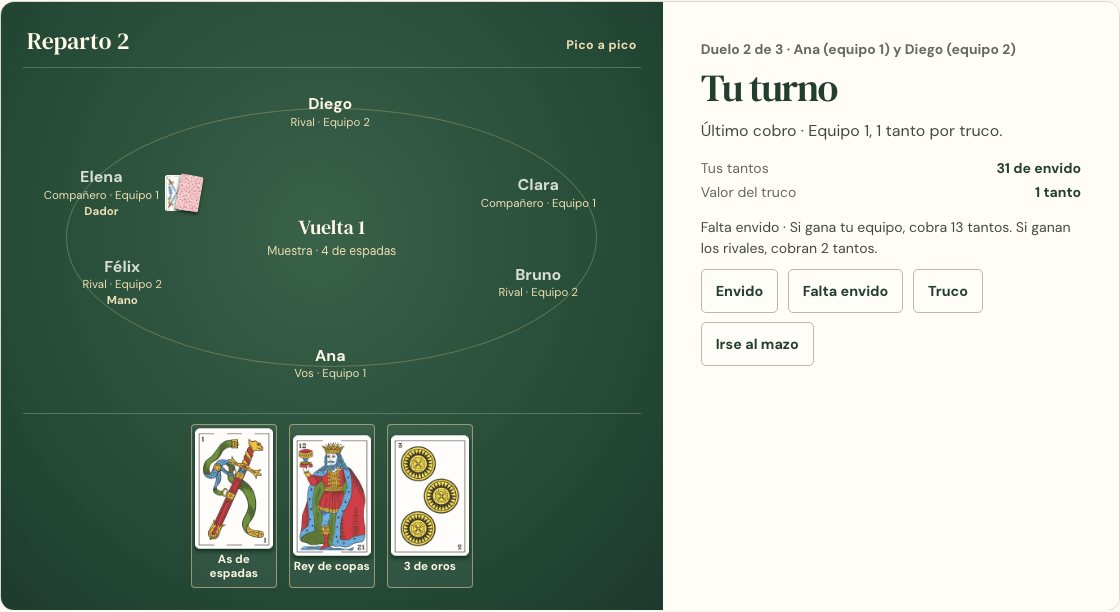
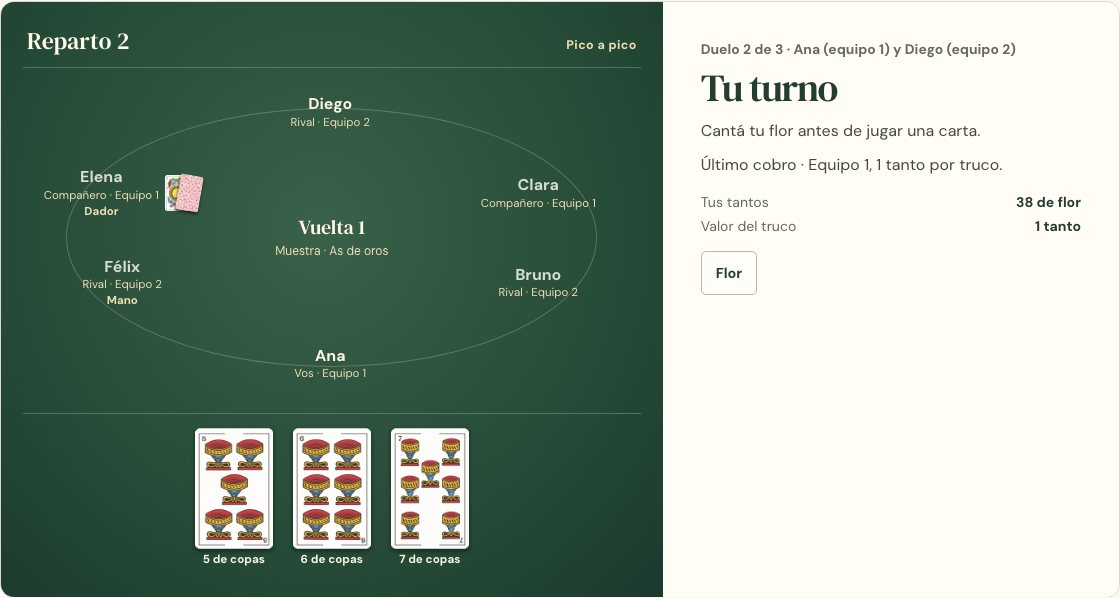
Recorrer el replay público con seis navegadores y cobrar el resto en el segundo duelo

diff --git a/src/components/jugar/Tercetos.tsx b/src/components/jugar/Tercetos.tsx
@@ -51,7 +51,7 @@ function Puestos({ mesa, partida, base }: Pick<Props, "mesa" | "partida" | "base
         const ganador = !enCurso && ultima?.resultado.tipo === "ganada" && ultima.resultado.asiento === asiento;
         return (
           <div key={asiento} className="j-seis-puesto" data-pos={(asiento - mesa.miAsiento + 6) % 6}
-            data-activo={lance.activos.includes(asiento)} role="group" aria-label={`Asiento ${asiento + 1} · ${nombre}`}>
+            data-activo={lance.activos.some(a => a === asiento)} role="group" aria-label={`Asiento ${asiento + 1} · ${nombre}`}>
             <div className="j-seis-nombre">
               <strong>{nombre}</strong>
               <span>{papel} · Equipo {equipo + 1}</span>
@@ -94,7 +94,7 @@ function Historial({ acciones, cobros, vueltas, mesa }: Pick<VistaTercetos, "acc
     {cobros.length > 0 && <ul aria-label="Tantos cobrados">
       {cobros.map((c, i) => <li key={i}>Equipo {c.equipo + 1} · {tantos(c.tantos)} por {c.motivo}
         {c.tantoGanador != null && c.asiento != null && ` (${mesa.asientos[c.asiento].nombre} con ${c.tantoGanador})`}
-        {c.valor !== c.tantos && ` · valor del canto ${tantos(c.valor)}`}.</li>)}
+        {c.valor != null && c.valor !== c.tantos && ` · valor del canto ${tantos(c.valor)}`}.</li>)}
     </ul>}
   </>;
 }
@@ -147,6 +147,8 @@ export function MesaDeTercetos({ mesa, partida, base, bloqueada, jugar }: Props)
           <h2 ref={encabezado} tabIndex={-1}>{titulo}</h2>
           {vista.estado === "esperando" && <p>{dueloPropio > (lance.duelo ?? 0)
             ? `Te toca en el duelo ${dueloPropio} de 3.` : "Ya jugaste tu duelo. Esperá el próximo reparto."}</p>}
+          {jugando?.legales.length === 1 && jugando.legales[0] === "flor" &&
+            <p>Cantá tu flor antes de jugar una carta.</p>}
           {vista.pendiente && <p>{mesa.asientos[vista.pendiente.asiento].nombre} cantó {canto[vista.pendiente.tipo].toLowerCase()}.</p>}
           {vista.trucoPendiente && vista.pendiente && vista.pendiente.tipo !== vista.trucoPendiente.tipo &&
             <p>Queda pendiente el {canto[vista.trucoPendiente.tipo].toLowerCase()} de {mesa.asientos[vista.trucoPendiente.asiento].nombre}.</p>}

diff --git a/src/components/jugar/cliente.ts b/src/components/jugar/cliente.ts
@@ -33,7 +33,7 @@ interface Marcador {
   meta: number;
   ganadorPartida: 0 | 1 | null;
 }
-export interface PartidaClasica extends Marcador {
+export interface Partida extends Marcador {
   formato?: Format;
   versionSenas?: string;
   turnos?: readonly PublicTurn[];
@@ -45,9 +45,9 @@ export interface PartidaTercetos extends Marcador {
   historialLances: readonly ResumenLance[];
   vista: VistaTercetos;
 }
-export type Partida = PartidaClasica | PartidaTercetos;
+type PartidaRecibida = Partida | PartidaTercetos;
 export type Tipo = VistaOnline["legales"][number];
-export type Eleccion = { tipo: Exclude<Tipo, "carta"> | "mazo" } | { tipo: "carta"; carta: CardId };
+export type Eleccion = { tipo: Exclude<Tipo, "carta"> } | { tipo: "carta"; carta: CardId };
 
 export class ErrorMesa extends Error {
   constructor(
@@ -86,7 +86,7 @@ export function idComando() {
 export function useMesa(id: string) {
   const ruta = "/api/mesas/" + encodeURIComponent(id);
   const [mesa, setMesa] = useState<Mesa>();
-  const [partida, setPartida] = useState<Partida>();
+  const [partida, setPartida] = useState<PartidaRecibida>();
   const [conectada, setConectada] = useState(false);
   const [error, setError] = useState<ErrorMesa | null>(null);
   const refrescar = useRef<() => Promise<void>>(async () => {});
@@ -115,7 +115,7 @@ export function useMesa(id: string) {
           const canal = socket?.readyState === WebSocket.OPEN ? socket : undefined;
           const sala = await pedir<Mesa>(ruta, undefined, cancel.signal);
           const mano = sala.lista
-            ? await pedir<Partida>(ruta + "/partida", undefined, cancel.signal)
+            ? await pedir<PartidaRecibida>(ruta + "/partida", undefined, cancel.signal)
             : undefined;
           if (cancel.signal.aborted) return;
           setMesa(sala);

diff --git a/src/components/jugar/Tablero.tsx b/src/components/jugar/Tablero.tsx
@@ -3,7 +3,7 @@ import { cartasPorId } from "../../lib/cartas";
 import type { CardId } from "../../motor/cartas";
 import type { VistaOnline } from "../../motor/mesa-online";
 import { cuentaDelChico, mitadesDelChico } from "../../motor/chico";
-import type { Asiento, Eleccion, Mesa, PartidaClasica, Tipo } from "./cliente";
+import type { Asiento, Eleccion, Mesa, Partida, Tipo } from "./cliente";
 
 export const canto = {
   truco: "Truco",
@@ -19,7 +19,7 @@ export const canto = {
   "no-quiero": "No quiero",
   "paso-flor": "Sin flor",
   mazo: "Irse al mazo",
-} satisfies Record<Exclude<Tipo, "carta"> | "mazo", string>;
+} satisfies Record<Exclude<Tipo, "carta">, string>;
 export const nombrar = (id: CardId) => cartasPorId.get(id)!.nombre;
 export const tantos = (n: number) => n + (n === 1 ? " tanto" : " tantos");
 
@@ -114,13 +114,13 @@ function AsientoEnMesa({
   );
 }
 
-function estadoDelTurno(mesa: Mesa, partida: PartidaClasica, vista: VistaOnline) {
+function estadoDelTurno(mesa: Mesa, partida: Partida, vista: VistaOnline) {
   const { resultado, pendiente, porDeclararFlor, turno, legales } = vista;
   const propio = mesa.asientos[mesa.miAsiento].equipo;
   if (resultado) {
     const fin = partida.ganadorPartida !== null;
     const victoria = resultado.equipo === propio;
-    const motivos = { vueltas: "las vueltas", rechazo: "el rechazo", envido: "el envido", flor: "la flor" };
+    const motivos = { mazo: "el retiro al mazo", vueltas: "las vueltas", rechazo: "el rechazo", envido: "el envido", flor: "la flor" };
     return {
       titulo: fin
         ? victoria
@@ -188,7 +188,7 @@ export function EnJuego({
   jugar,
 }: {
   mesa: Mesa;
-  partida: PartidaClasica;
+  partida: Partida;
   bloqueada: boolean;
   base: string;
   jugar: (a?: Eleccion) => void;

diff --git a/src/components/jugar/Senas.tsx b/src/components/jugar/Senas.tsx
@@ -3,14 +3,14 @@ import { signals, type Signal } from "../../../training/contracts/index";
 import { cartasPorId } from "../../lib/cartas";
 import juego from "../../data/juego.json";
 import { EnJuego } from "./Tablero";
-import type { Eleccion, Mesa, PartidaClasica } from "./cliente";
+import type { Eleccion, Mesa, Partida } from "./cliente";
 import "./senas.css";
 
 const filas = juego.find(seccion => seccion.id === "senas")!.blocks.find(b => b.table)!.table!.rows;
 const menu = signals.map((id, i) => ({ id, texto: filas[i][1].replace(/\.$/, "") }));
 
 export function MesaConSenas({ base, mesa, partida, bloqueada, jugar }: {
-  base: string; mesa: Mesa; partida: PartidaClasica; bloqueada: boolean;
+  base: string; mesa: Mesa; partida: Partida; bloqueada: boolean;
   jugar: (accion?: Eleccion & { sena?: Signal }) => void;
 }) {
   const [seleccion, elegir] = useState<{version: number; sena: Signal | ""}>();
